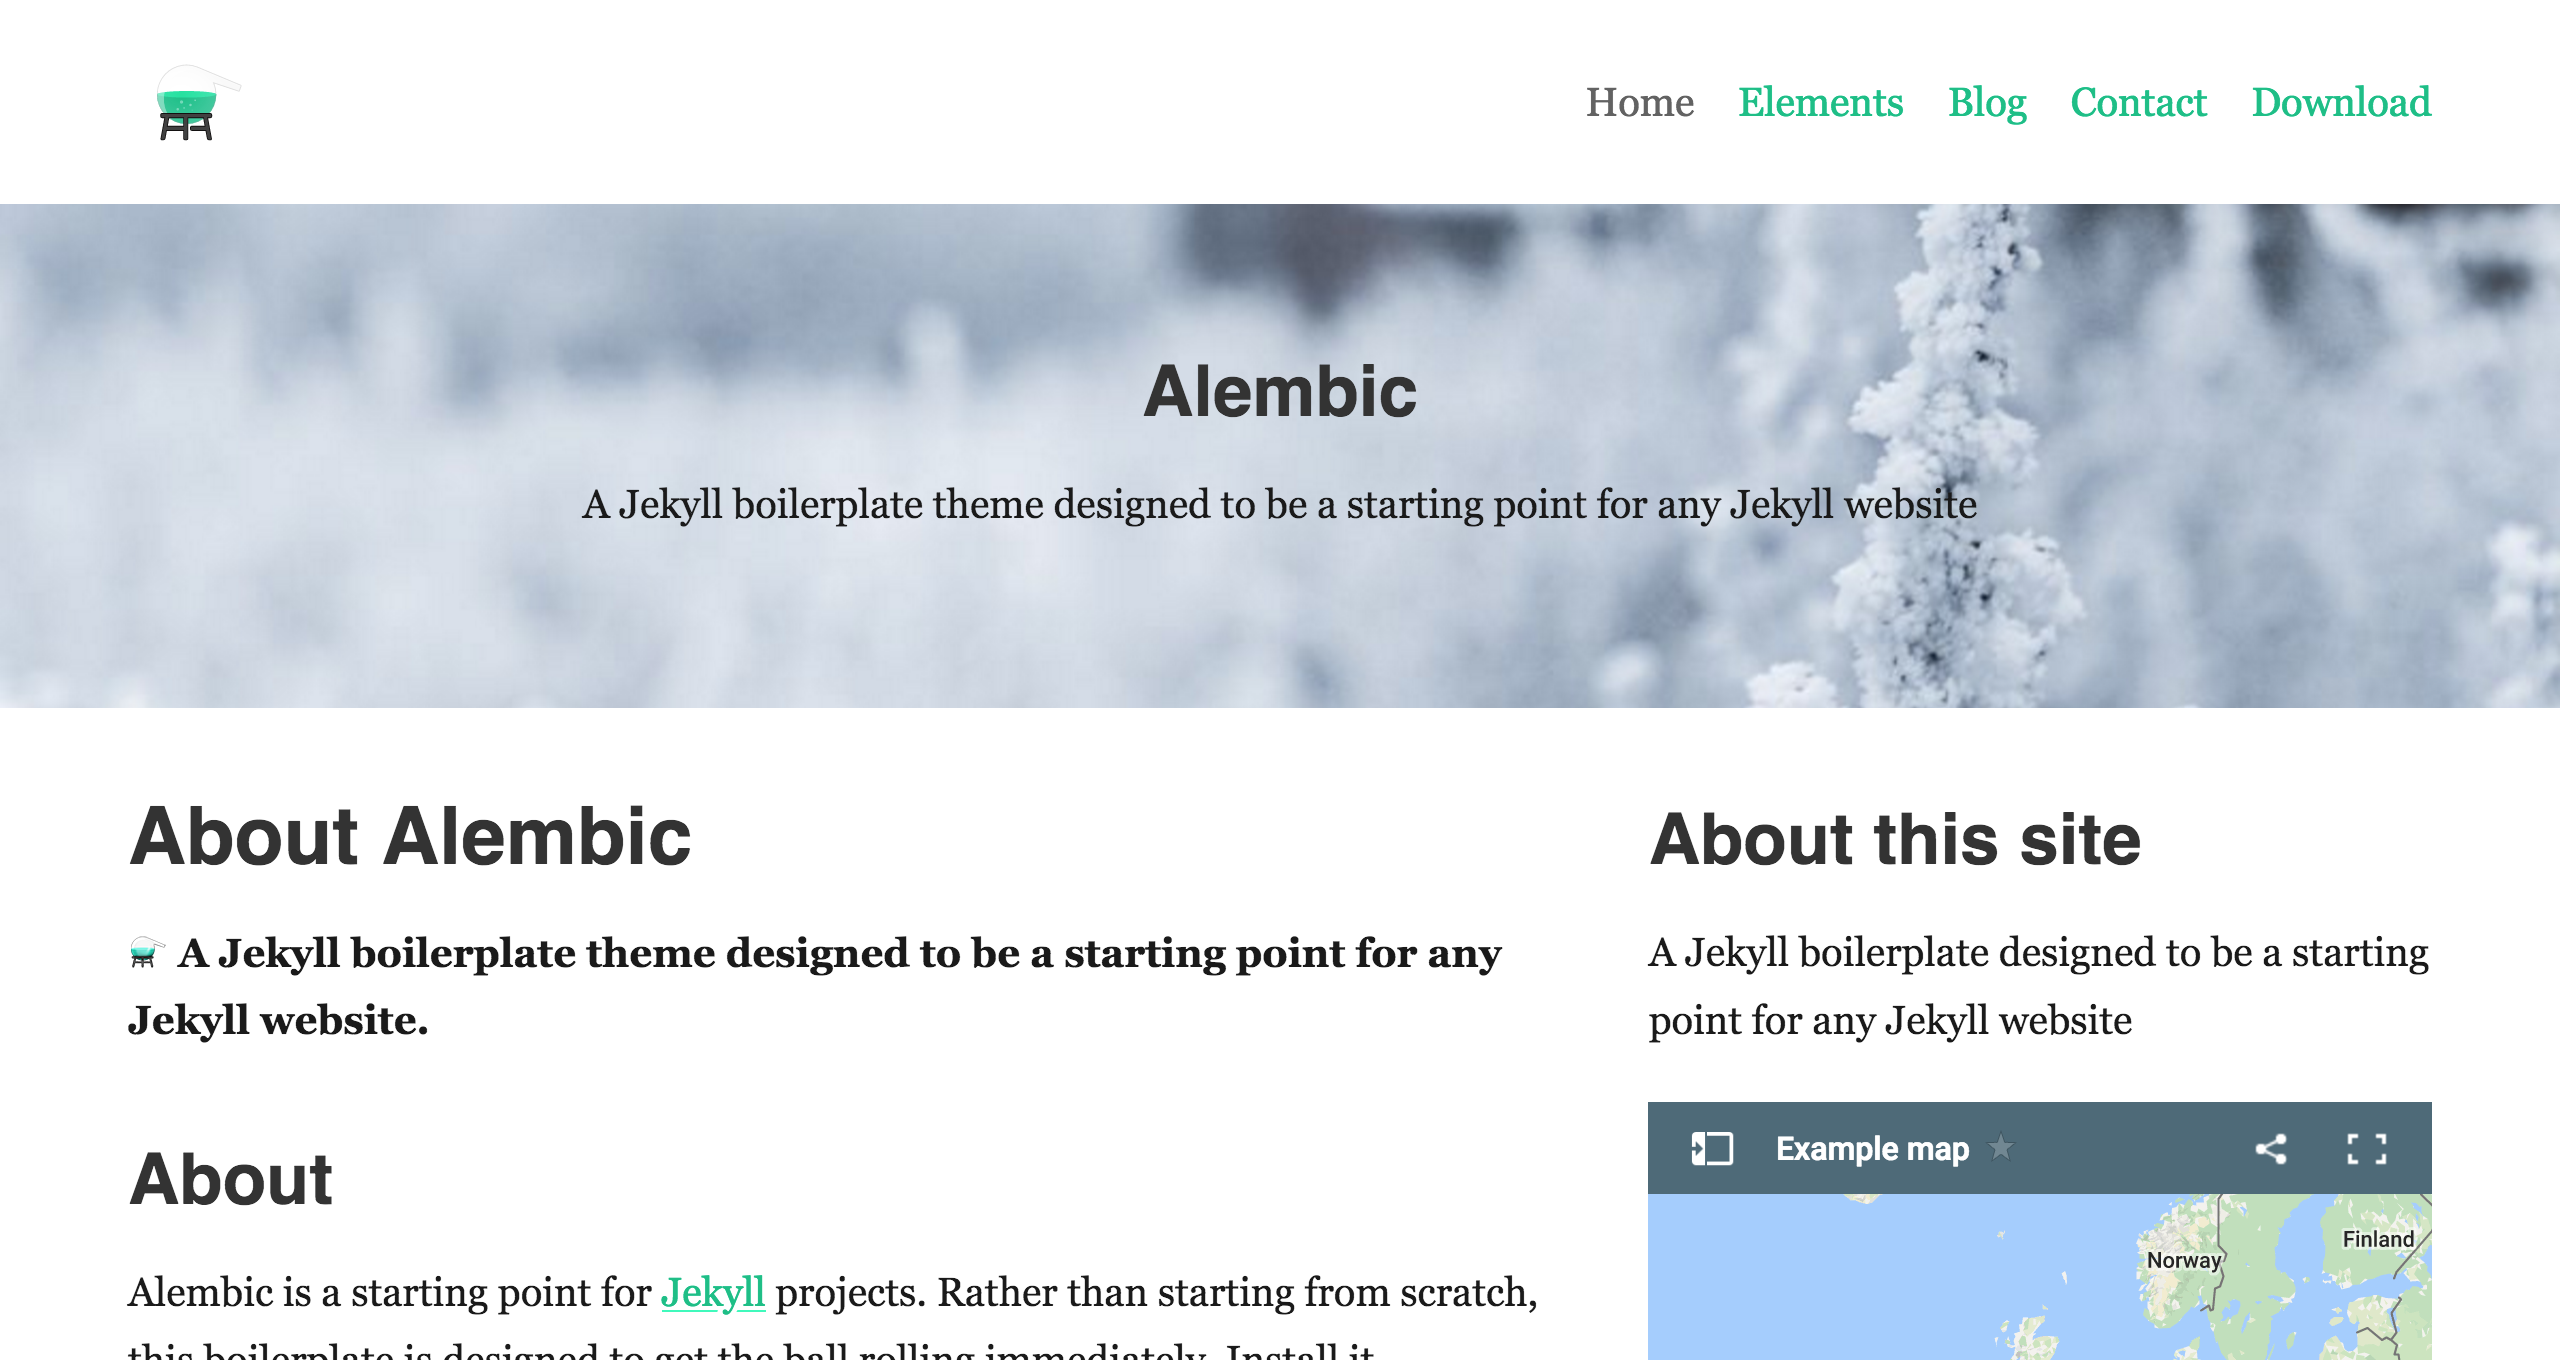
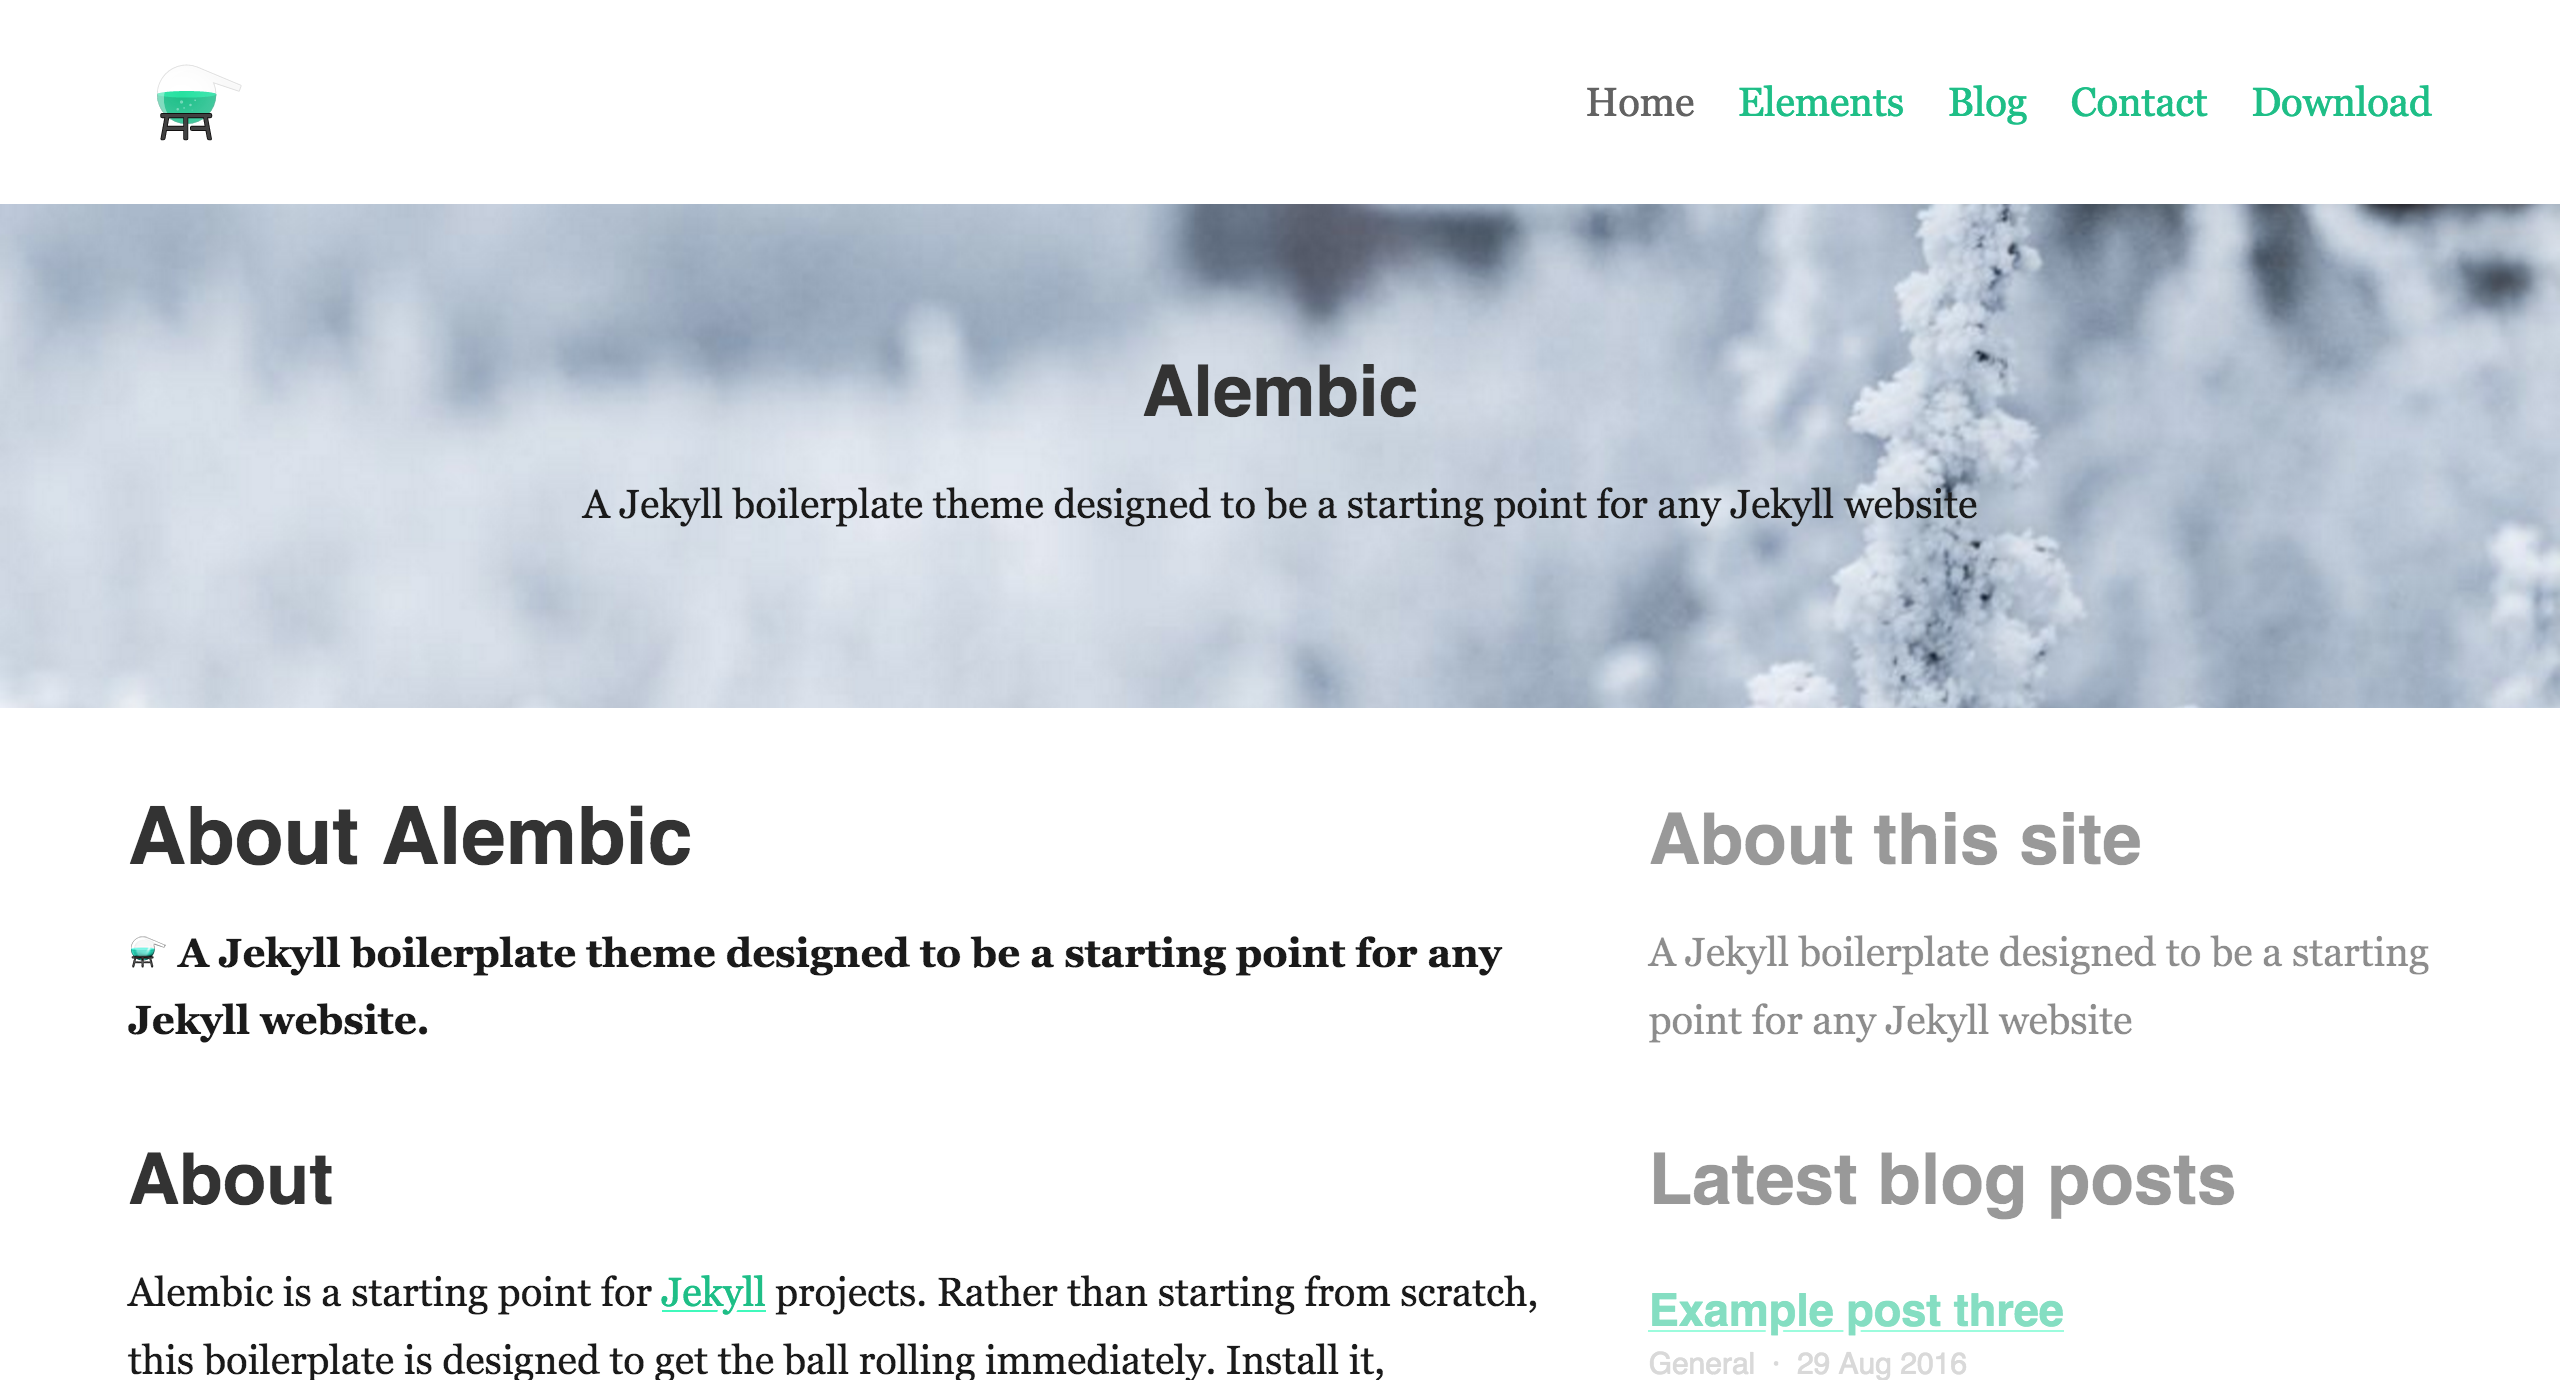
Removes map from sidebar, makes sidebar less distracting from the main content, adds more example elements to elements demo page

diff --git a/_includes/site-aside.html b/_includes/site-aside.html
@@ -2,9 +2,6 @@
   <h2>About this site</h2>
   <p>{{ site.description }}</p>
 
-  {% include map.html id="1UT-2Z-Vg_MG_TrS5X2p8SthsJhc" %}
-  <br/>
-
   {% if page.is_page %}
     {% unless paginator.posts %}
       {% include post-list.html %}

diff --git a/assets/styles.scss b/assets/styles.scss
@@ -160,6 +160,11 @@ body {
   max-width: 100%;
   @include breakpoint(break-1) {
     max-width: 34%;
+    opacity: 0.5;
+    transition: opacity .1s;
+    &:hover {
+      opacity: 1;
+    }
   }
 }
 

diff --git a/demo/elements.md b/demo/elements.md
@@ -48,10 +48,26 @@ Duis aute irure dolor in [a link](# "a link") reprehenderit in voluptate velit e
 
 <span>Span element</span>
 
+### Demo map embed
+
+{% include map.html id="1UT-2Z-Vg_MG_TrS5X2p8SthsJhc" %}
+
+### Button include
+
 {% include button.html text="A button" link="https://david.darn.es" %}
 
-{% include figure.html image="https://unsplash.it/300/400?image=123" position="right" %}
+### Icon include
 
----
+{% include icon.html id="twitter" %}
+
+### Video include
+
+{% include video.html id="zrkcGL5H3MU" %}
+
+### Image includes
+
+{% include figure.html image="https://unsplash.it/300/400?image=123" caption="This image has a caption" %}
+
+{% include figure.html image="https://unsplash.it/300/400?image=123" position="right" %}
 
 {% include figure.html image="https://unsplash.it/2000/400?image=123" position="full" %}

diff --git a/elements.md b/elements.md
@@ -48,10 +48,26 @@ Duis aute irure dolor in [a link](# "a link") reprehenderit in voluptate velit e
 
 <span>Span element</span>
 
+### Demo map embed
+
+{% include map.html id="1UT-2Z-Vg_MG_TrS5X2p8SthsJhc" %}
+
+### Button include
+
 {% include button.html text="A button" link="https://david.darn.es" %}
 
-{% include figure.html image="https://unsplash.it/300/400?image=123" position="right" %}
+### Icon include
 
----
+{% include icon.html id="twitter" %}
+
+### Video include
+
+{% include video.html id="zrkcGL5H3MU" %}
+
+### Image includes
+
+{% include figure.html image="https://unsplash.it/300/400?image=123" caption="This image has a caption" %}
+
+{% include figure.html image="https://unsplash.it/300/400?image=123" position="right" %}
 
 {% include figure.html image="https://unsplash.it/2000/400?image=123" position="full" %}
